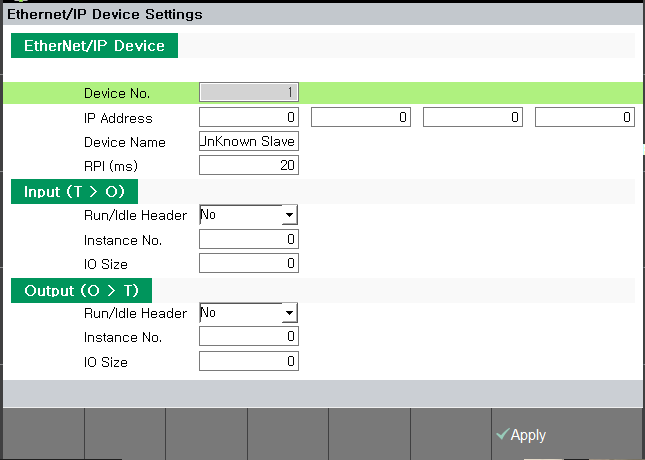
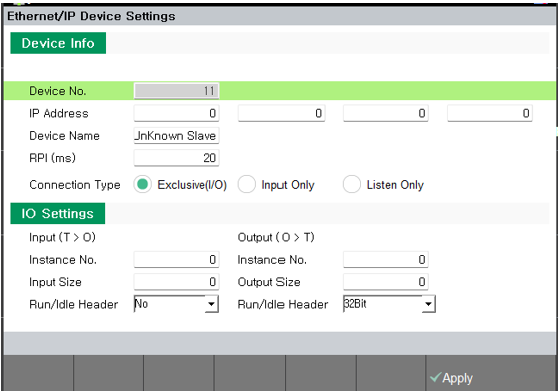
EtherNet/IP 설정 그림 및 설명 수정

diff --git a/2-ethernet-ip/3-scanner/2-settings.md b/2-ethernet-ip/3-scanner/2-settings.md
@@ -59,6 +59,10 @@
 \.      * IP Address : 장치의 IP 주소   
 \.      * Device Name : 장치 이름 (통신 연결과는 무관, 단순 식별용)   
 \.      * RPI (ms) : IO 데이터 갱신 주기   
+\.      * Connection Type   
+\.          - Exclusive Owner (I/O) : Scanner - Adapter 입출력 연결
+\.          - Input Only : Adapter의 입력 신호만 연결
+\.          - Listen Only : Adapter 가 다른 Scanner와 I/O 연결 되어있는 상태에서 입력 신호만 연결
 
 \.      * Input (T > O) : Slave > Master 연결   
 \.      * Output (O > T) : Master > Slave 연결   
